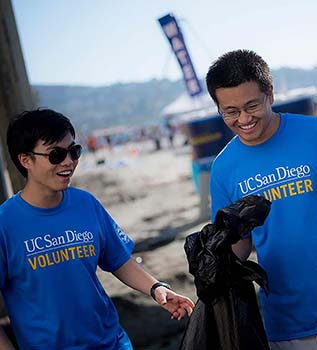
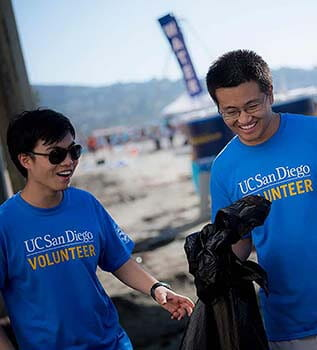
More image compression

Changed region(s): [[0.8233, 0.4857, 0.9937, 0.5714], [0.0852, 0.6857, 0.2839, 0.7714], [0.2271, 0.6571, 0.2839, 0.6857]]

diff --git a/improved/index.html b/improved/index.html
@@ -696,7 +696,7 @@
                     <div class="col-xs-6 col-sm-3 footer-brand-wrap">
                         <a alt="UC San Diego Homepage" class="footer-brand" href="http://ucsd.edu">
                             <img alt="Brand" class="img-responsive"
-                                src="https://www.ucsd.edu/_resources/img/logo_UCSD_white.png" />
+                                src="_resources/img/logo_UCSD_white.png" />
                         </a>
                     </div>
                     <div class="col-xs-6 col-sm-9 footer-address-wrap no-gutter">
